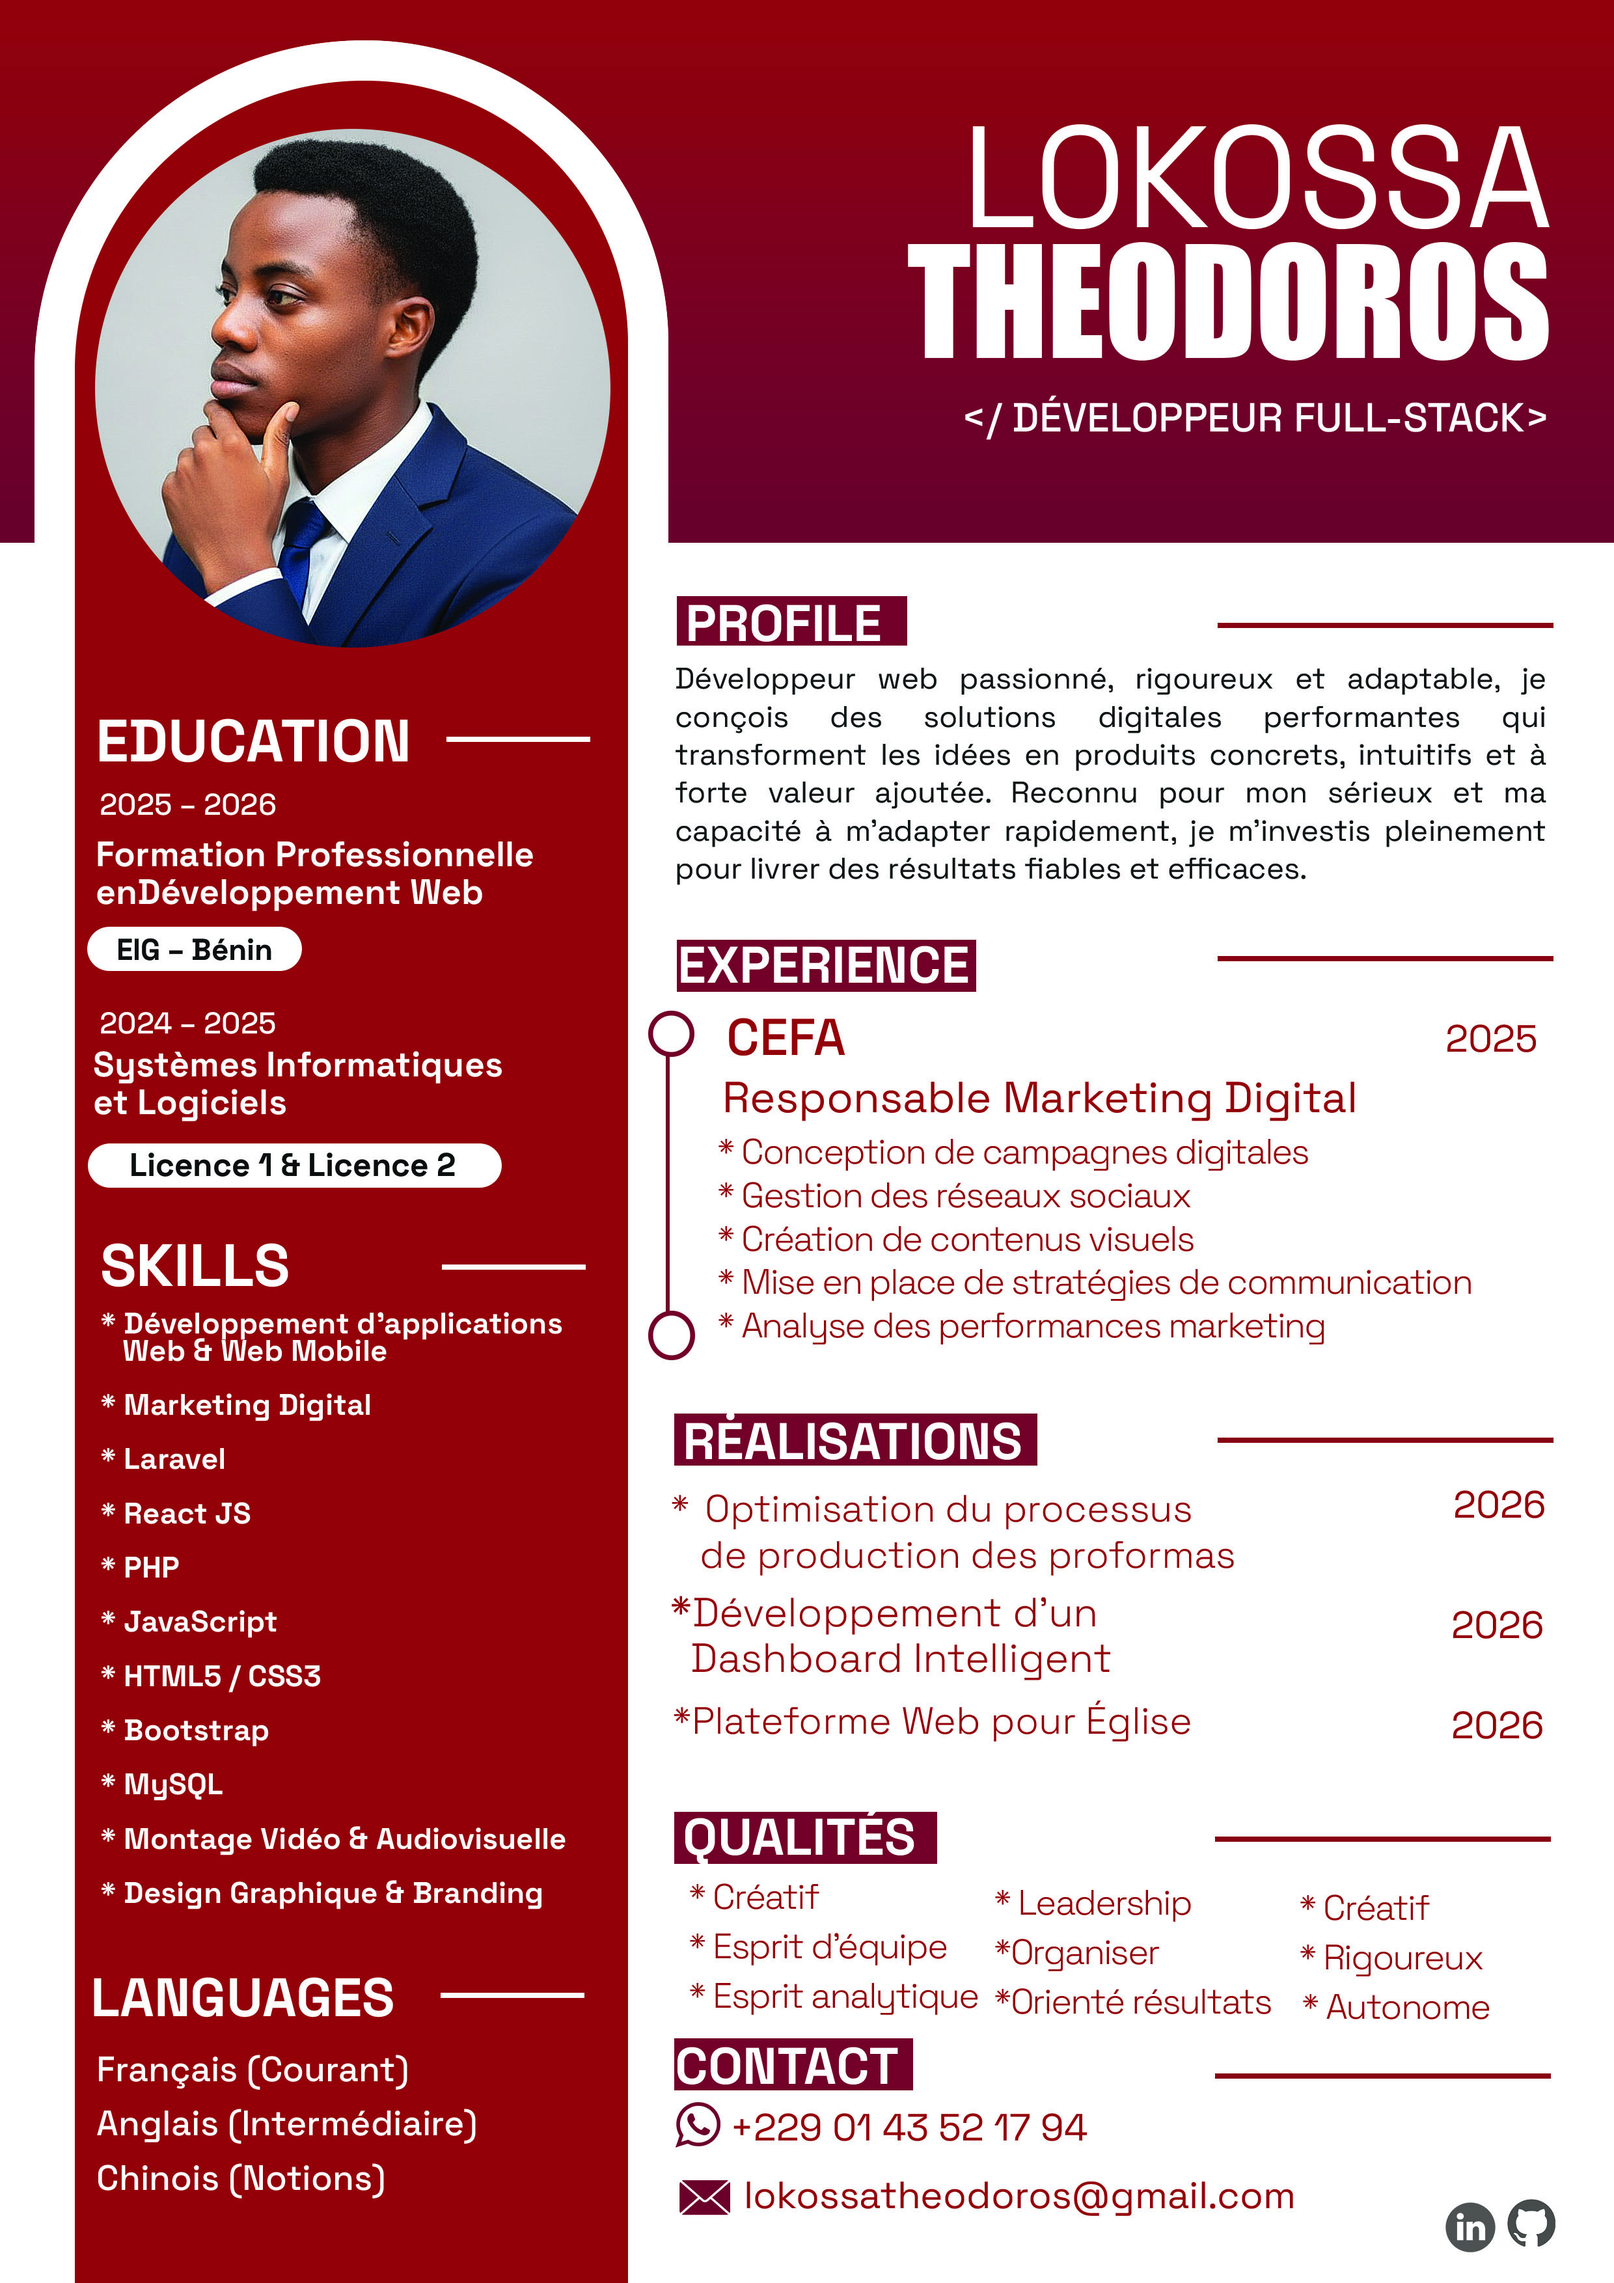
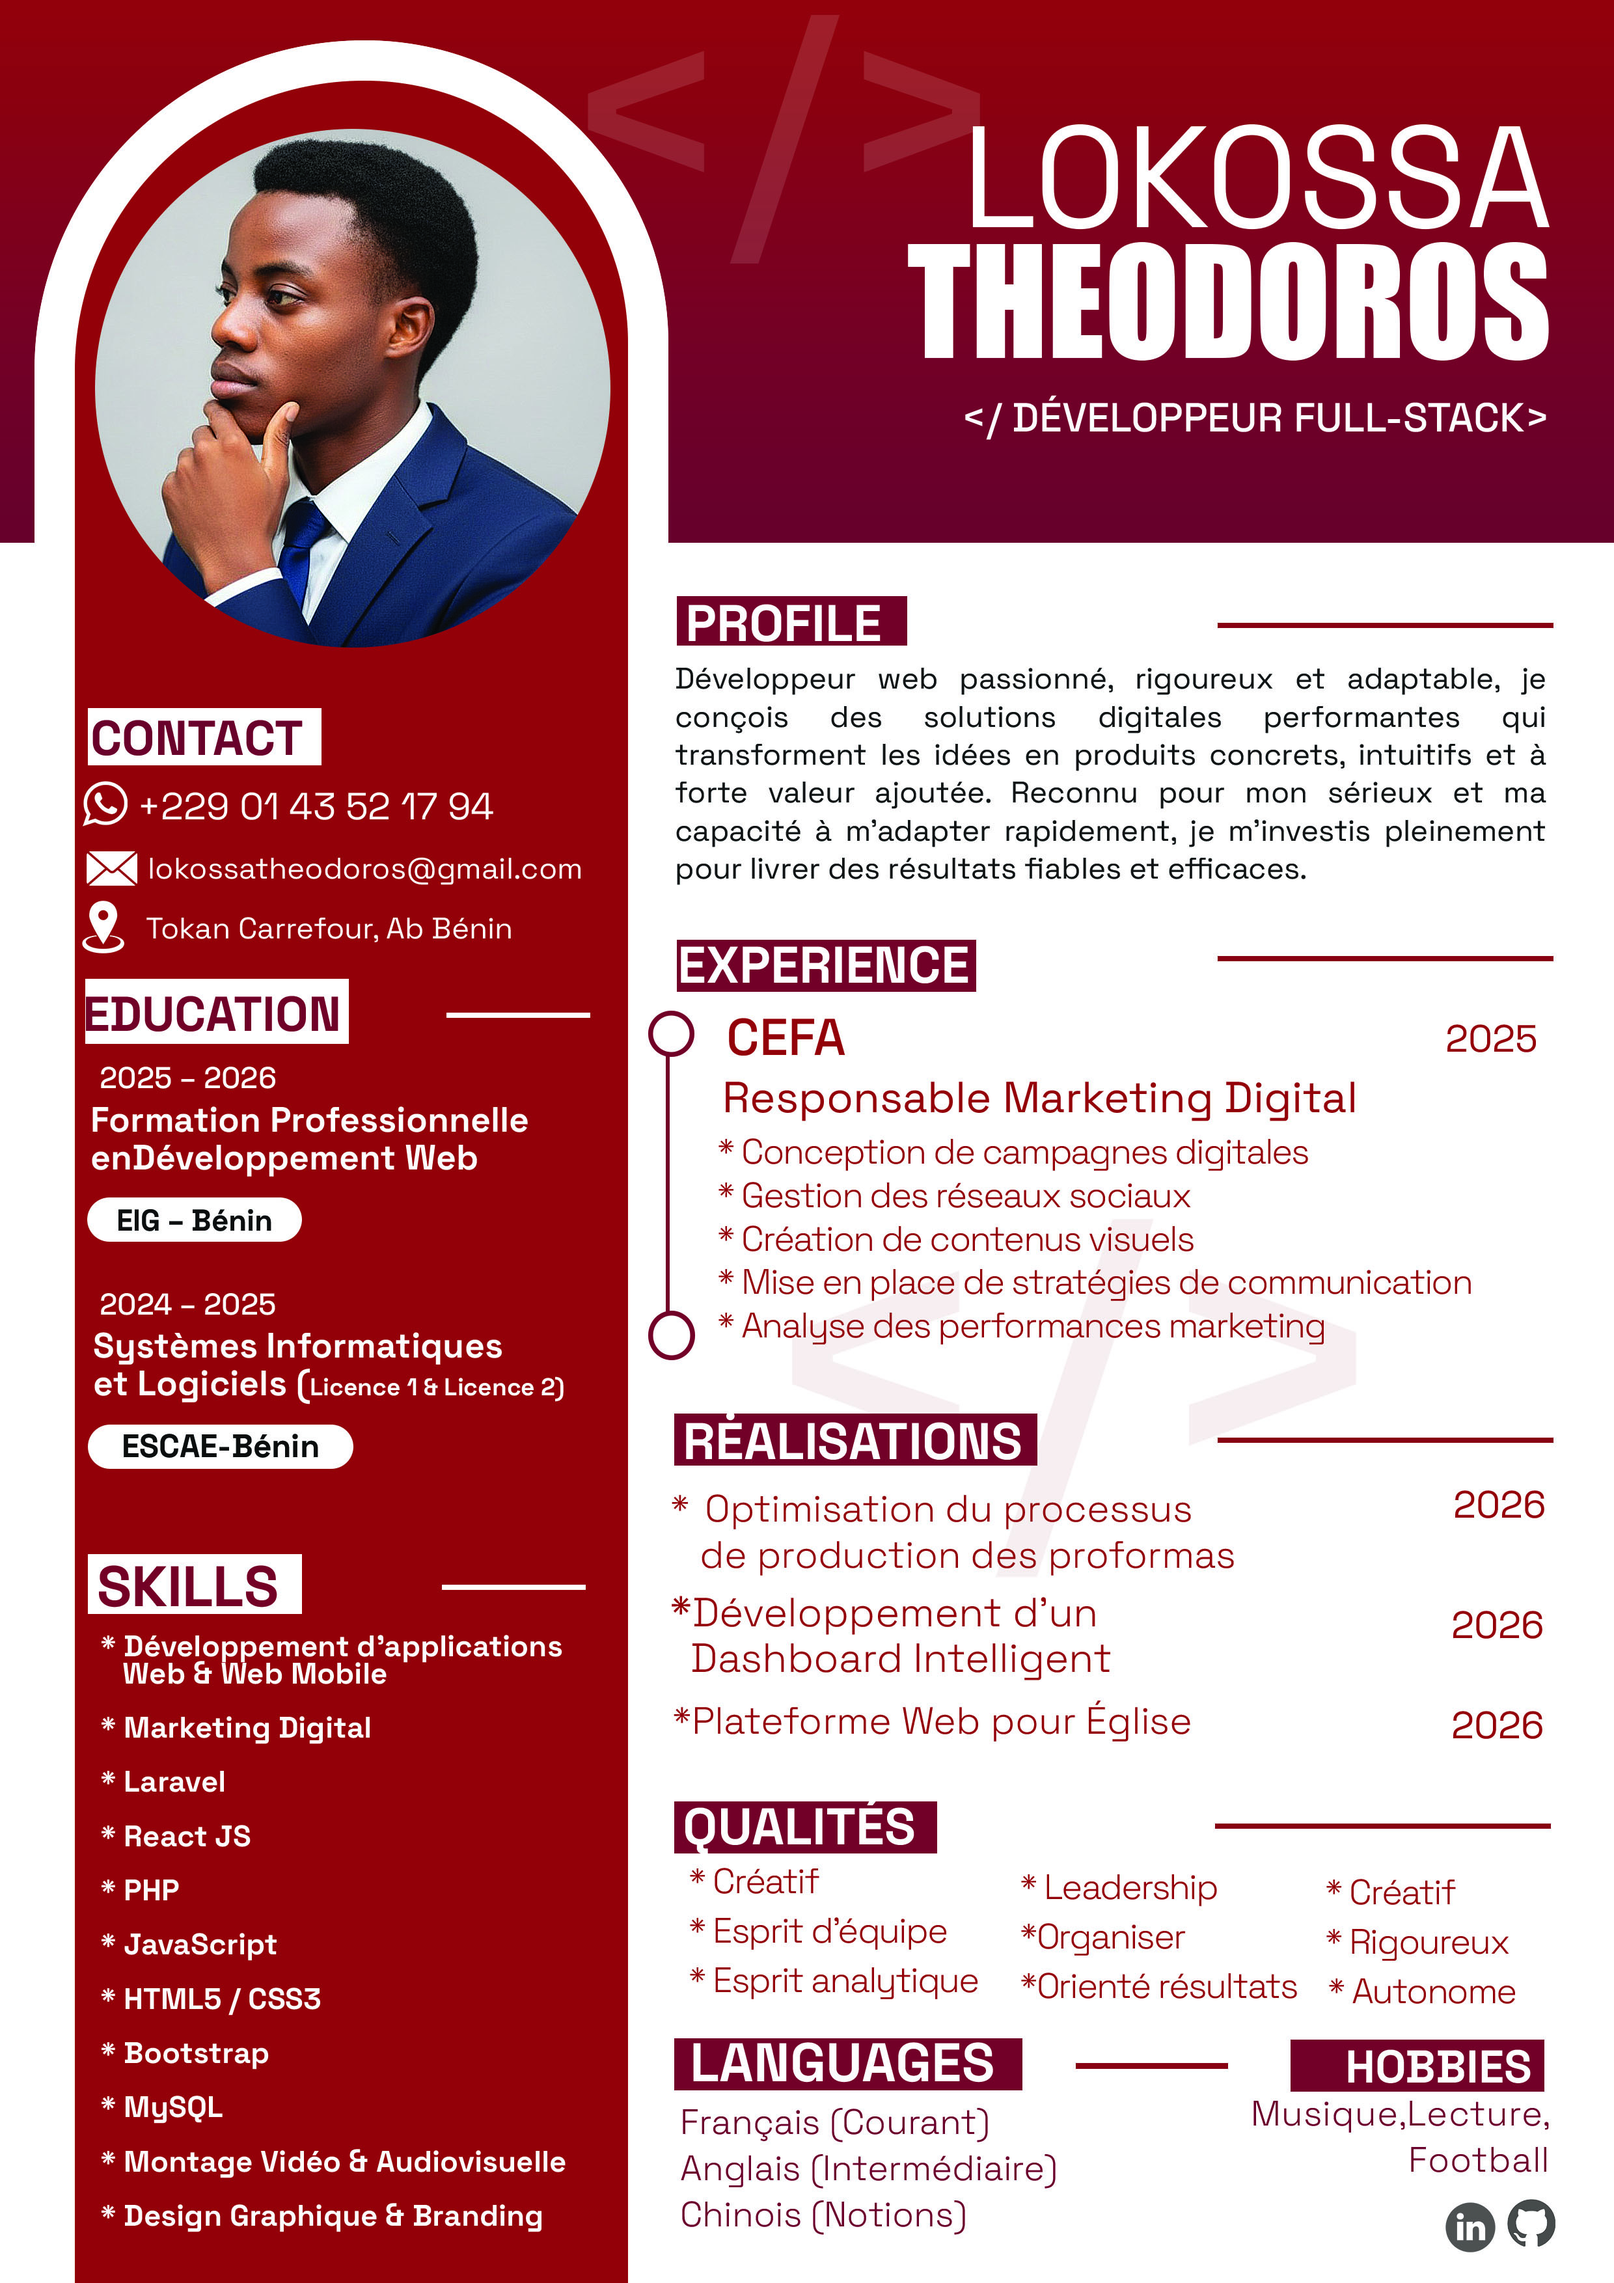
🖼 Changement image theo.jpg vers theo.png

diff --git a/src/components/Hero.jsx b/src/components/Hero.jsx
@@ -1,7 +1,7 @@
 import { motion } from "framer-motion";
 import { FaGithub, FaLinkedin } from "react-icons/fa";
 import { HiMail, HiArrowDown } from "react-icons/hi";
-import avatar from "../assets/theo.jpg";
+import avatar from "../assets/theo.png";
 
 export default function Hero() {
   // 🔗 TES VRAIS LIENS
